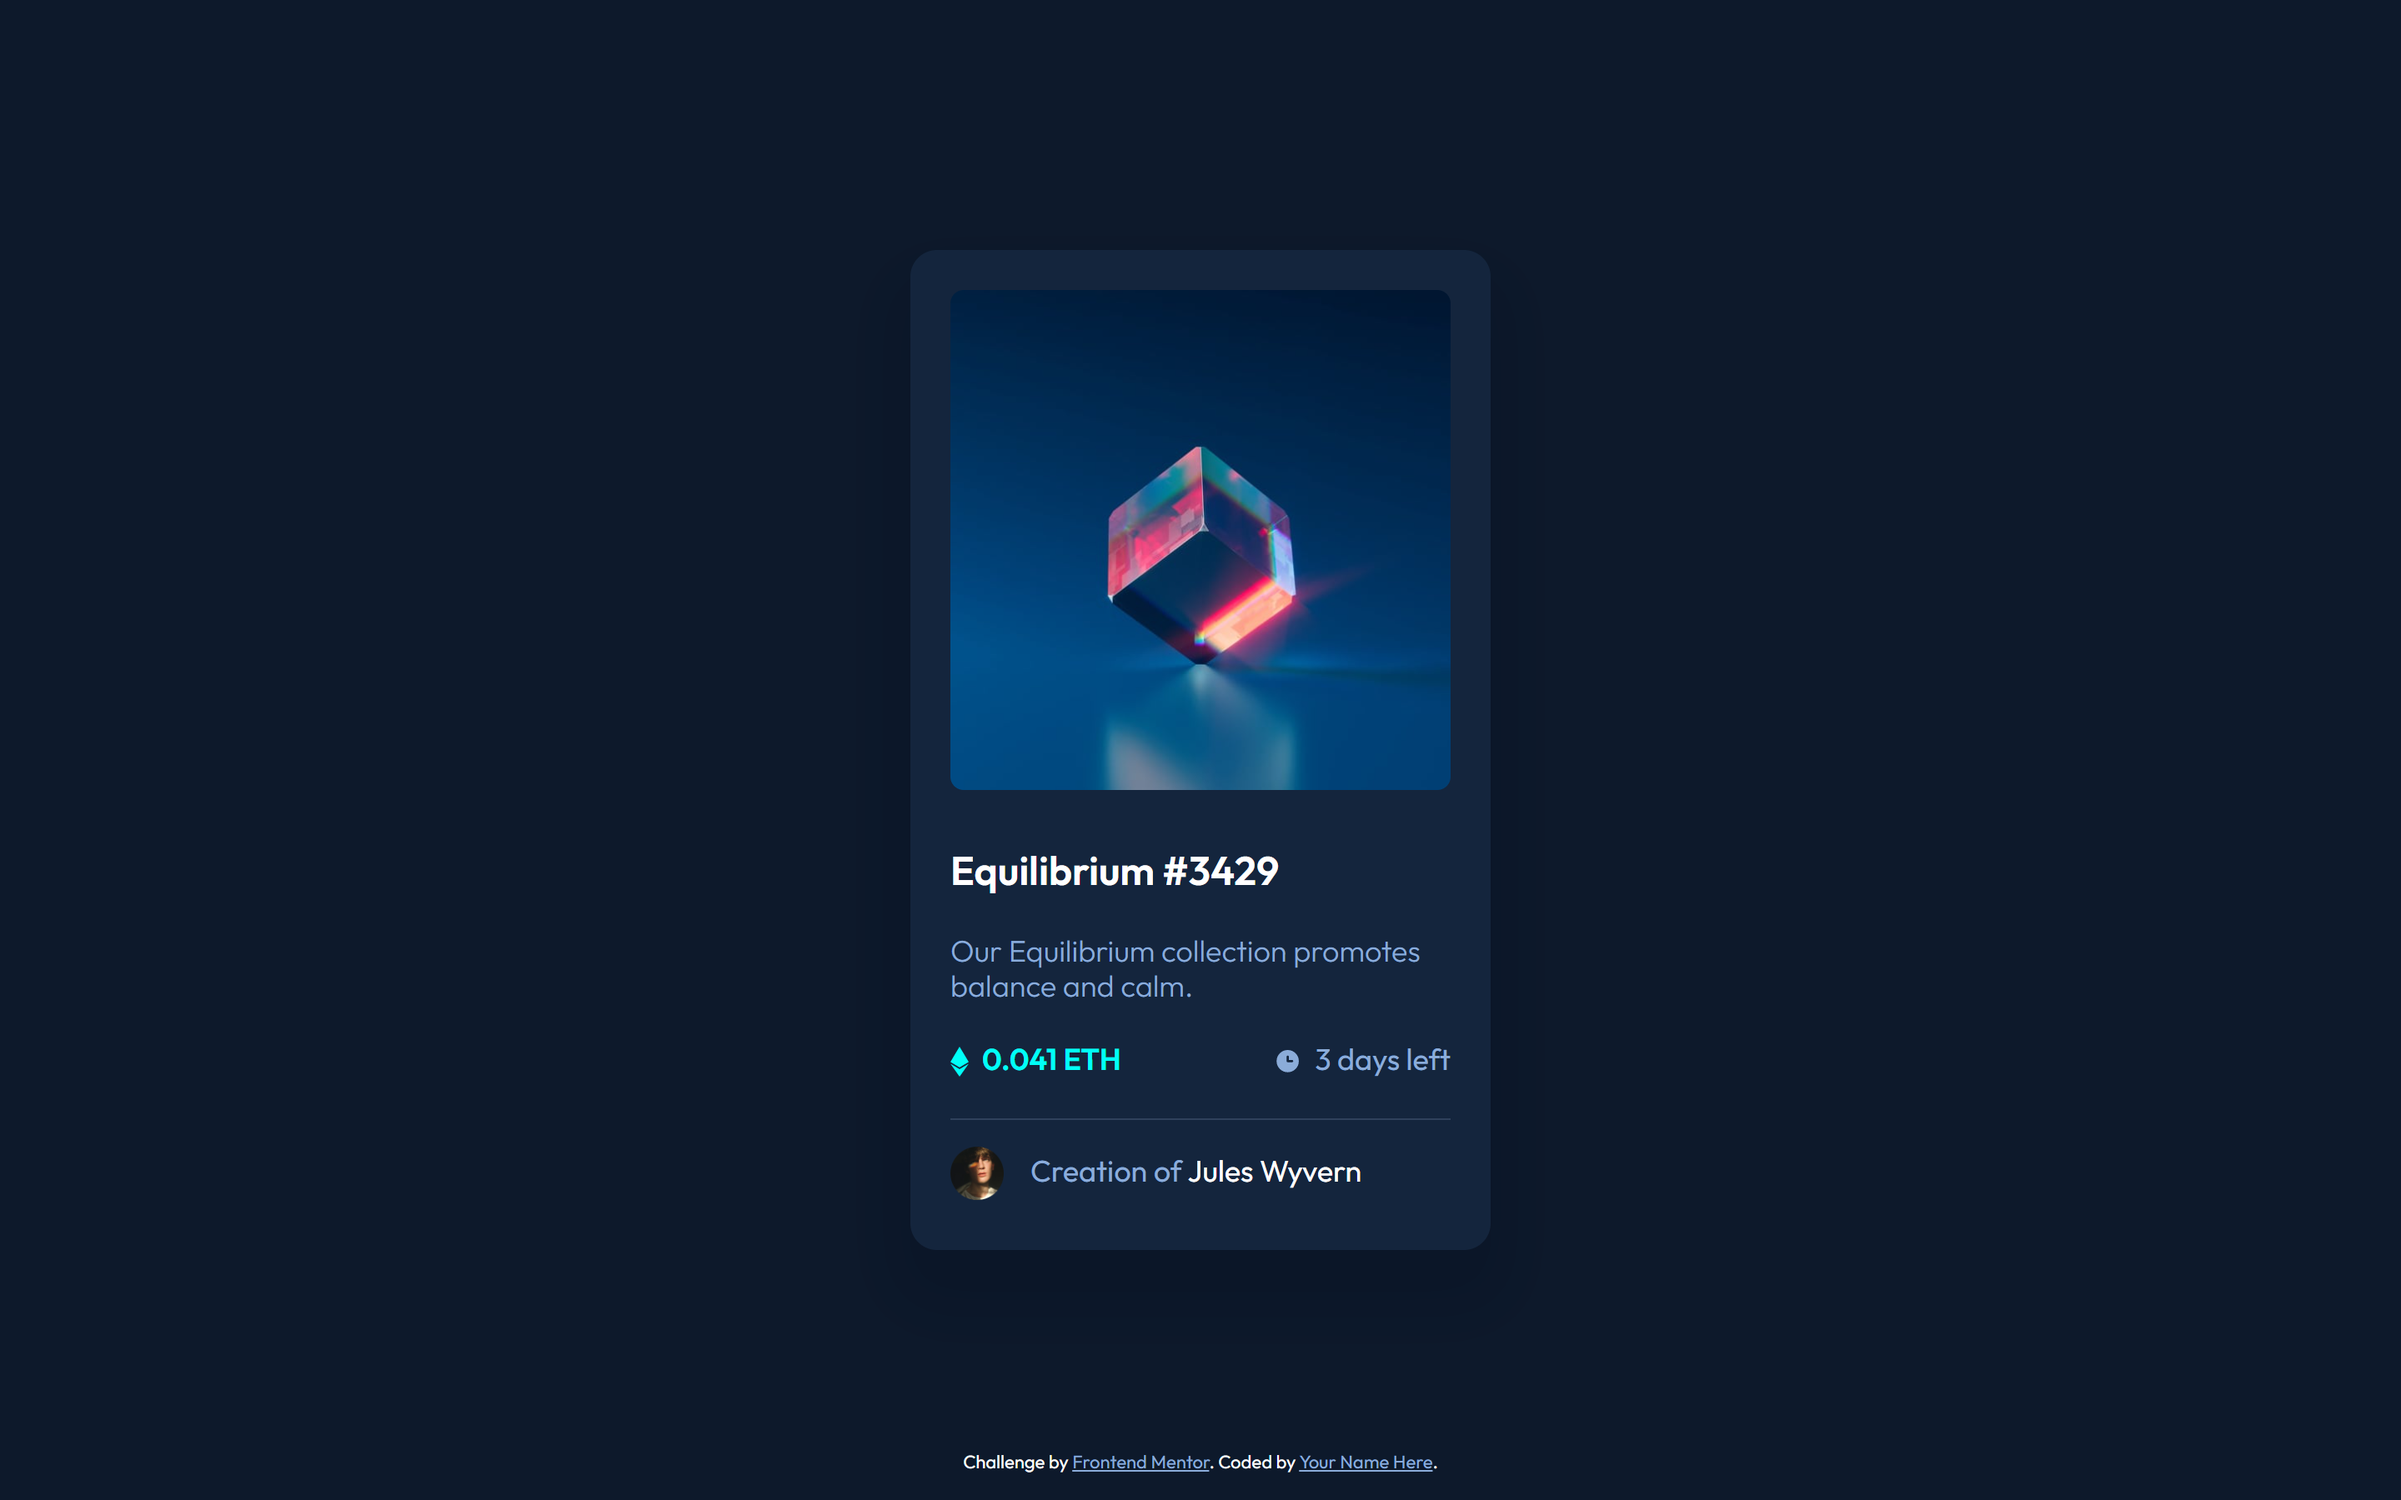
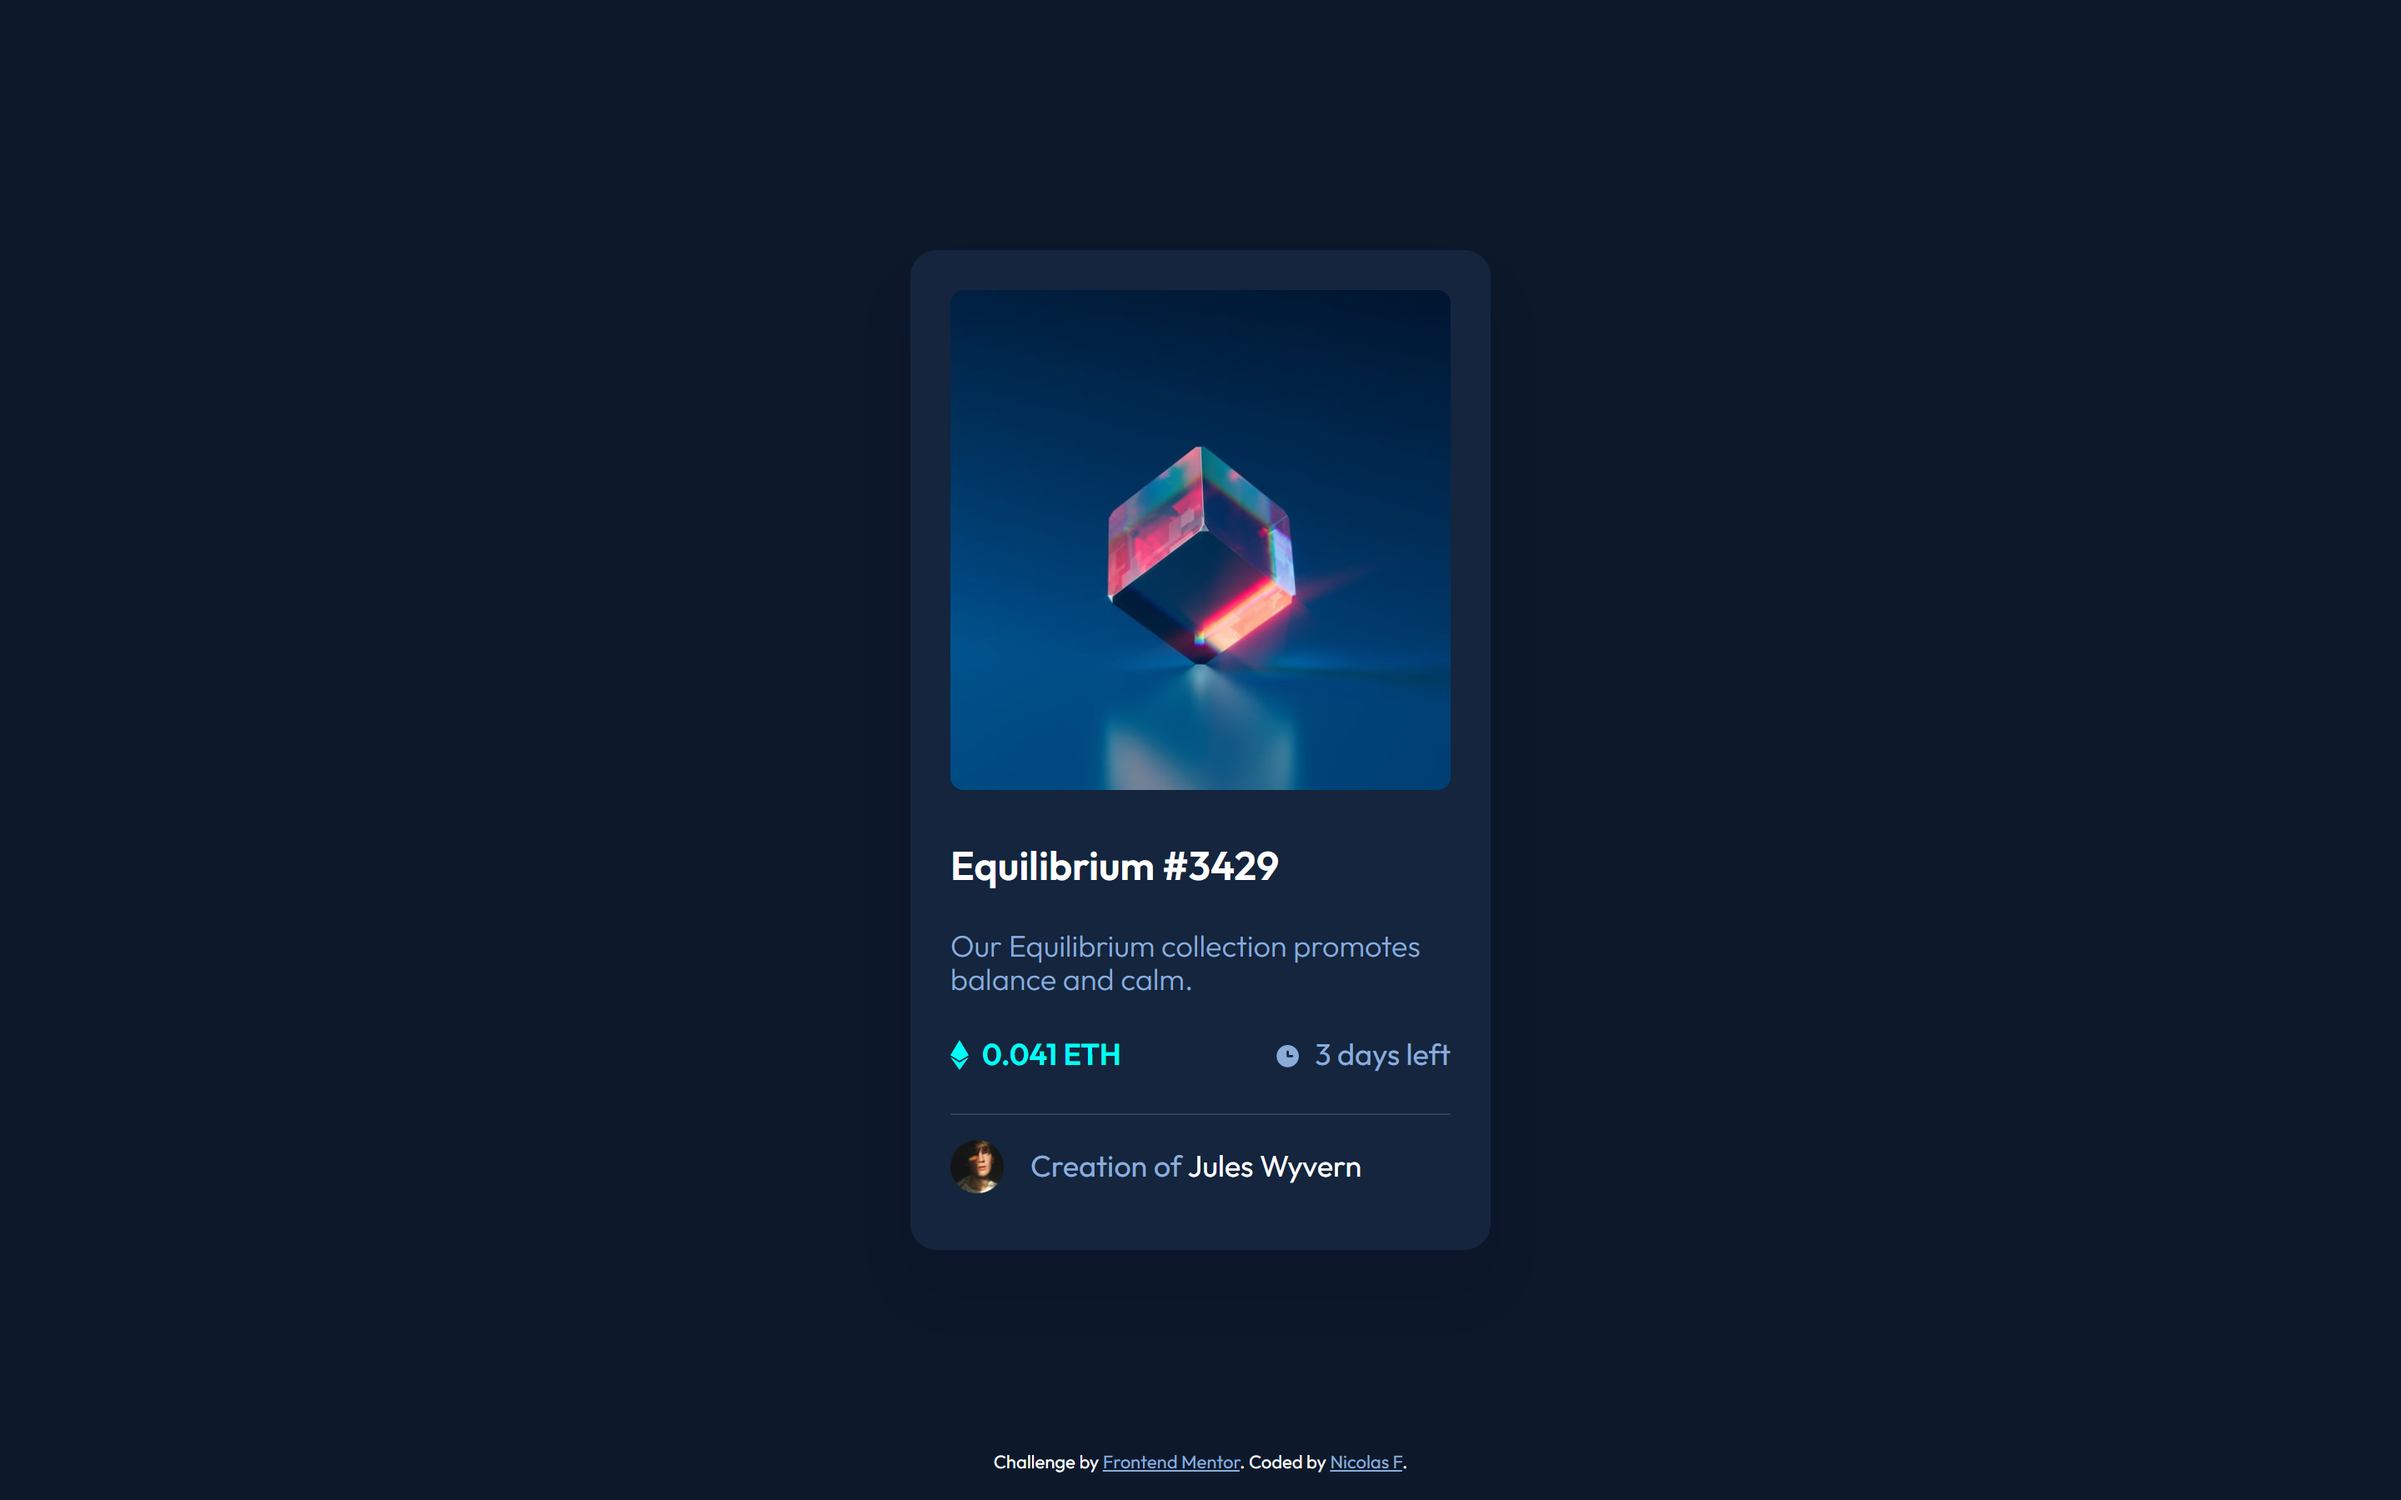
Updated README and folder structure

diff --git a/index.html b/index.html
@@ -54,7 +54,9 @@
         Challenge by
         <a href="https://www.frontendmentor.io?ref=challenge" target="_blank"
           >Frontend Mentor</a
-        >. Coded by <a href="#">Your Name Here</a>.
+        >. Coded by
+        <a href="https://www.frontendmentor.io/profiles/nicolasfig">Nicolas F</a
+        >.
       </div>
     </footer>
   </body>

diff --git a/README.md b/README.md
@@ -1,92 +1,83 @@
-# Frontend Mentor - NFT preview card component
+# Frontend Mentor - Four card feature section solution
 
-![Design preview for the NFT preview card component coding challenge](./design/desktop-preview.jpg)
+This is a solution to the [Four card feature section challenge on Frontend Mentor](https://www.frontendmentor.io/challenges/four-card-feature-section-weK1eFYK). Frontend Mentor challenges help you improve your coding skills by building realistic projects.
 
-## Welcome! 👋
+## Table of contents
 
-Thanks for checking out this front-end coding challenge.
+- [Overview](#overview)
+  - [The challenge](#the-challenge)
+  - [Screenshot](#screenshot)
+  - [Links](#links)
+- [My process](#my-process)
+  - [Built with](#built-with)
+  - [What I learned](#what-i-learned)
+  - [Continued development](#continued-development)
+  - [Useful resources](#useful-resources)
+- [Author](#author)
+- [Acknowledgments](#acknowledgments)
 
-[Frontend Mentor](https://www.frontendmentor.io) challenges help you improve your coding skills by building realistic projects.
+**Note: Delete this note and update the table of contents based on what sections you keep.**
 
-**To do this challenge, you need a basic understanding of HTML and CSS.**
+## Overview
 
-## The challenge
+### The challenge
 
-Your challenge is to build out this preview card component and get it looking as close to the design as possible.
+Users should be able to:
 
-You can use any tools you like to help you complete the challenge. So if you've got something you'd like to practice, feel free to give it a go.
+- View the optimal layout for the site depending on their device's screen size
 
-Your users should be able to:
+### Screenshots
 
-- View the optimal layout depending on their device's screen size
-- See hover states for interactive elements
+#### Desktop
 
-Want some support on the challenge? [Join our Slack community](https://www.frontendmentor.io/slack) and ask questions in the **#help** channel.
+![](./images/desktop_view.png)
 
-## Where to find everything
+#### Mobile
 
-Your task is to build out the project to the designs inside the `/design` folder. You will find both a mobile and a desktop version of the design. 
+![](./images/mobile_view.png)
 
-The designs are in JPG static format. Using JPGs will mean that you'll need to use your best judgment for styles such as `font-size`, `padding` and `margin`. 
+### Links
 
-If you would like the design files (we provide Sketch & Figma versions) to inspect the design in more detail, you can [subscribe as a PRO member](https://www.frontendmentor.io/pro).
+- Solution URL: [Code](https://github.com/nicolasfig/nft-preview-card-component)
+- Live Site URL: [Live site](https://nicolasfig.github.io/nft-preview-card-component/)
 
-You will find all the required assets in the `/images` folder. The assets are already optimized.
+## My process
 
-There is also a `style-guide.md` file containing the information you'll need, such as color palette and fonts.
+### Built with
 
-## Building your project
+- Semantic HTML5 markup
+- CSS custom properties
+- Flexbox
+- CSS Grid
 
-Feel free to use any workflow that you feel comfortable with. Below is a suggested process, but do not feel like you need to follow these steps:
+### What I learned
 
-1. Initialize your project as a public repository on [GitHub](https://github.com/). Creating a repo will make it easier to share your code with the community if you need help. If you're not sure how to do this, [have a read-through of this Try Git resource](https://try.github.io/).
-2. Configure your repository to publish your code to a web address. This will also be useful if you need some help during a challenge as you can share the URL for your project with your repo URL. There are a number of ways to do this, and we provide some recommendations below.
-3. Look through the designs to start planning out how you'll tackle the project. This step is crucial to help you think ahead for CSS classes to create reusable styles.
-4. Before adding any styles, structure your content with HTML. Writing your HTML first can help focus your attention on creating well-structured content.
-5. Write out the base styles for your project, including general content styles, such as `font-family` and `font-size`.
-6. Start adding styles to the top of the page and work down. Only move on to the next section once you're happy you've completed the area you're working on.
+How to place an overlay over another image and display it on hover, but I had a lot of trouble keeping the view icon opacity full and the background opacity at 0.5
 
-## Deploying your project
+```css
+.image .overlay {
+  position: absolute;
+  bottom: 0;
+  opacity: 0;
+  display: flex;
+  align-items: center;
+  justify-content: center;
+  width: 300px;
+  height: 300px;
+  background-color: var(--cyan);
+  border-radius: var(--s-8);
+}
 
-As mentioned above, there are many ways to host your project for free. Our recommend hosts are:
+.image .overlay:hover {
+  opacity: 0.5;
+}
+```
 
-- [GitHub Pages](https://pages.github.com/)
-- [Vercel](https://vercel.com/)
-- [Netlify](https://www.netlify.com/)
+### Useful resources
 
-You can host your site using one of these solutions or any of our other trusted providers. [Read more about our recommended and trusted hosts](https://medium.com/frontend-mentor/frontend-mentor-trusted-hosting-providers-bf000dfebe).
+- [Flexbox Malven](https://flexbox.malven.co/) - Useful flexbox reference as always
+- [MDN](https://developer.mozilla.org/en-US/) - MDN the best documentation
 
-## Create a custom `README.md`
+## Author
 
-We strongly recommend overwriting this `README.md` with a custom one. We've provided a template inside the [`README-template.md`](./README-template.md) file in this starter code.
-
-The template provides a guide for what to add. A custom `README` will help you explain your project and reflect on your learnings. Please feel free to edit our template as much as you like.
-
-Once you've added your information to the template, delete this file and rename the `README-template.md` file to `README.md`. That will make it show up as your repository's README file.
-
-## Submitting your solution
-
-Submit your solution on the platform for the rest of the community to see. Follow our ["Complete guide to submitting solutions"](https://medium.com/frontend-mentor/a-complete-guide-to-submitting-solutions-on-frontend-mentor-ac6384162248) for tips on how to do this.
-
-Remember, if you're looking for feedback on your solution, be sure to ask questions when submitting it. The more specific and detailed you are with your questions, the higher the chance you'll get valuable feedback from the community.
-
-## Sharing your solution
-
-There are multiple places you can share your solution:
-
-1. Share your solution page in the **#finished-projects** channel of the [Slack community](https://www.frontendmentor.io/slack). 
-2. Tweet [@frontendmentor](https://twitter.com/frontendmentor) and mention **@frontendmentor**, including the repo and live URLs in the tweet. We'd love to take a look at what you've built and help share it around.
-3. Share your solution on other social channels like LinkedIn.
-4. Blog about your experience building your project. Writing about your workflow, technical choices, and talking through your code is a brilliant way to reinforce what you've learned. Great platforms to write on are [dev.to](https://dev.to/), [Hashnode](https://hashnode.com/), and [CodeNewbie](https://community.codenewbie.org/).
-
-We provide templates to help you share your solution once you've submitted it on the platform. Please do edit them and include specific questions when you're looking for feedback. 
-
-The more specific you are with your questions the more likely it is that another member of the community will give you feedback.
-
-## Got feedback for us?
-
-We love receiving feedback! We're always looking to improve our challenges and our platform. So if you have anything you'd like to mention, please email hi[at]frontendmentor[dot]io.
-
-This challenge is completely free. Please share it with anyone who will find it useful for practice.
-
-**Have fun building!** 🚀
+- Frontend Mentor - [@nicolasfig](https://www.frontendmentor.io/profile/nicolasfig)
